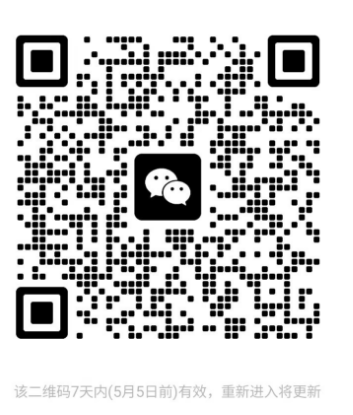
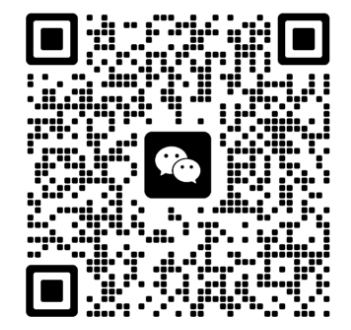
1

diff --git a/css/light.css b/css/light.css
@@ -668,189 +668,4 @@ body:not(.lg-from-hash)
   left: 0;
 }
 
-/* 顶部导航栏样式 */
-.navbar {
-  position: fixed;
-  top: 0;
-  left: 0;
-  right: 0;
-  background-color: var(--navbar-bg);
-  color: var(--navbar-text);
-  padding: 0 20px;
-  height: 70px;
-  display: flex;
-  align-items: center;
-  justify-content: space-between;
-  z-index: 1000;
-  box-shadow: 0 2px 10px rgba(0, 0, 0, 0.1);
-}
 
-.navbar-logo {
-  display: flex;
-  align-items: center;
-  gap: 10px;
-  font-size: 1.5rem;
-  font-weight: 700;
-  color: white;
-  text-decoration: none;
-}
-
-.navbar-logo i {
-  color: #4e9af1;
-  font-size: 1.8rem;
-}
-
-/* 导航菜单 */
-.navbar-menu {
-  display: flex;
-  list-style: none;
-  height: 100%;
-}
-
-.navbar-item {
-  position: relative;
-  height: 100%;
-  display: flex;
-  align-items: center;
-}
-
-.navbar-link {
-  color: var(--navbar-text);
-  text-decoration: none;
-  padding: 0 20px;
-  height: 100%;
-  display: flex;
-  align-items: center;
-  gap: 8px;
-  transition: var(--transition);
-  font-size: 0.95rem;
-}
-
-.navbar-link:hover {
-  background-color: rgba(255, 255, 255, 0.1);
-}
-
-.navbar-link i {
-  font-size: 1.1rem;
-}
-
-/* 下拉菜单 */
-.dropdown {
-  position: absolute;
-  top: 100%;
-  left: 0;
-  background-color: var(--dropdown-bg);
-  border-radius: 0 0 8px 8px;
-  box-shadow: var(--shadow);
-  min-width: 200px;
-  opacity: 0;
-  visibility: hidden;
-  transform: translateY(10px);
-  transition: var(--transition);
-  z-index: 100;
-}
-
-.navbar-item:hover .dropdown {
-  opacity: 1;
-  visibility: visible;
-  transform: translateY(0);
-}
-
-.dropdown-item {
-  padding: 12px 20px;
-  border-bottom: 1px solid rgba(255, 255, 255, 0.05);
-}
-
-.dropdown-item:last-child {
-  border-bottom: none;
-}
-
-.dropdown-link {
-  color: var(--navbar-text);
-  text-decoration: none;
-  display: flex;
-  align-items: center;
-  gap: 10px;
-  transition: var(--transition);
-}
-
-.dropdown-link:hover {
-  color: #4e9af1;
-  transform: translateX(5px);
-}
-
-.dropdown-link i {
-  width: 20px;
-  text-align: center;
-}
-
-/* 移动端菜单按钮 */
-.menu-toggle {
-  display: none;
-  background: none;
-  border: none;
-  color: white;
-  font-size: 1.5rem;
-  cursor: pointer;
-}
-
-/* 主内容区 */
-.main-content {
-  padding: 40px;
-  max-width: 1200px;
-  margin: 0 auto;
-}
-
-/* 响应式设计 */
-@media (max-width: 992px) {
-  .navbar-menu {
-    position: fixed;
-    top: 70px;
-    left: 0;
-    right: 0;
-    background-color: var(--navbar-bg);
-    flex-direction: column;
-    height: auto;
-    max-height: 0;
-    overflow: hidden;
-    transition: max-height 0.3s ease;
-  }
-
-  .navbar-menu.active {
-    max-height: 500px;
-  }
-
-  .navbar-item {
-    height: auto;
-    border-bottom: 1px solid rgba(255, 255, 255, 0.1);
-  }
-
-  .navbar-link {
-    padding: 15px 20px;
-  }
-
-  .dropdown {
-    position: static;
-    box-shadow: none;
-    border-radius: 0;
-    max-height: 0;
-    overflow: hidden;
-    opacity: 1;
-    visibility: visible;
-    transform: none;
-    transition: max-height 0.3s ease;
-    background-color: rgba(0, 0, 0, 0.1);
-  }
-
-  .navbar-item:hover .dropdown {
-    max-height: 300px;
-  }
-
-  .dropdown-item {
-    padding-left: 40px;
-  }
-
-  .menu-toggle {
-    display: block;
-  }
-}

diff --git a/index.html b/index.html
@@ -112,9 +112,15 @@
                 </div>
             </div>
 
-            <div class="qrcode">
-                <img src="./wx.png" alt="客户端下载二维码">
-                <div class="qrcode-caption">扫码加入我们</div>
+            <div style="display: flex;">
+                <div class="qrcode" style="margin-right: 10px;">
+                    <img src="./wx.png" alt="客户端下载二维码">
+                    <div class="qrcode-caption">扫码加入我们</div>
+                </div>
+                <div class="qrcode qrcode1">
+                    <img src="./jc/生才.png" alt="大流量电话卡">
+                    <div class="qrcode-caption">生才有道</div>
+                </div>
             </div>
         </div>
     </footer>
@@ -136,6 +142,7 @@
                 counter: false
             });
             lightGallery(document.querySelector('.qrcode'));
+            lightGallery(document.querySelector('.qrcode1'));
 
             // 滚动时触发卡片动画
             const cards = document.querySelectorAll('.card');
